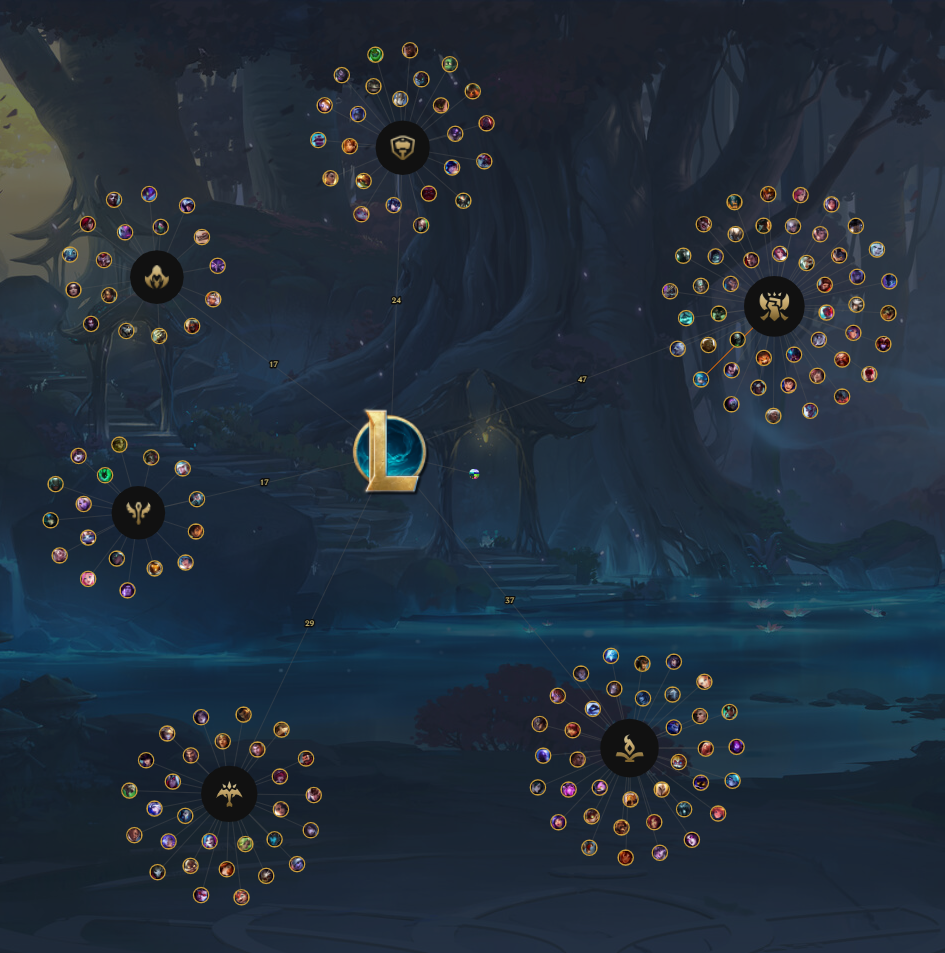
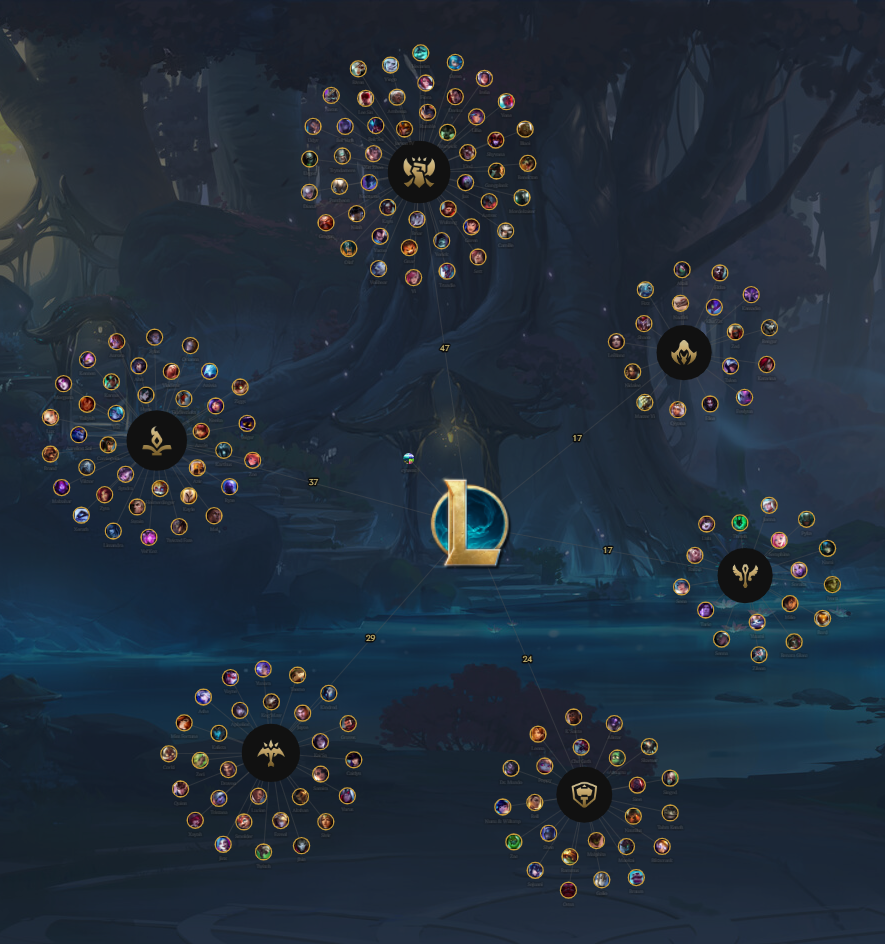
[style] Modify network physics

diff --git a/app/script.js b/app/script.js
@@ -17,7 +17,7 @@ class NetworkVisualization {
             enableImages: true,
             maxImageSize: 64,
             zoomThreshold: 0.4,
-            hideLabelsThreshold: 0.7,
+            hideLabelsThreshold: 0,
             progressiveLoading: true,
             imageLoadBatchSize: 5, // Load 5 images at a time
             imageLoadDelay: 100 // Delay between batches in ms
@@ -58,7 +58,7 @@ class NetworkVisualization {
             title: node.description || node.label,
             size: node.size || 20,
             originalSize: node.size || 20,
-            mass: node.mass || 3,
+            mass: node.mass || 4,
             borderWidth: node.BrWidth || 2,
             borderWidthSelected: node.BrWidthSel || 3,
             shadow: false,
@@ -482,7 +482,11 @@ class NetworkVisualization {
         return {
             physics: {
                 enabled: true,
-                solver: 'barnesHut'
+                solver: 'barnesHut',
+                barnesHut: {
+                    gravitationalConstant: -1000,
+                    centralGravity: 1
+                }
             },
             interaction: {
                 hover: true,
